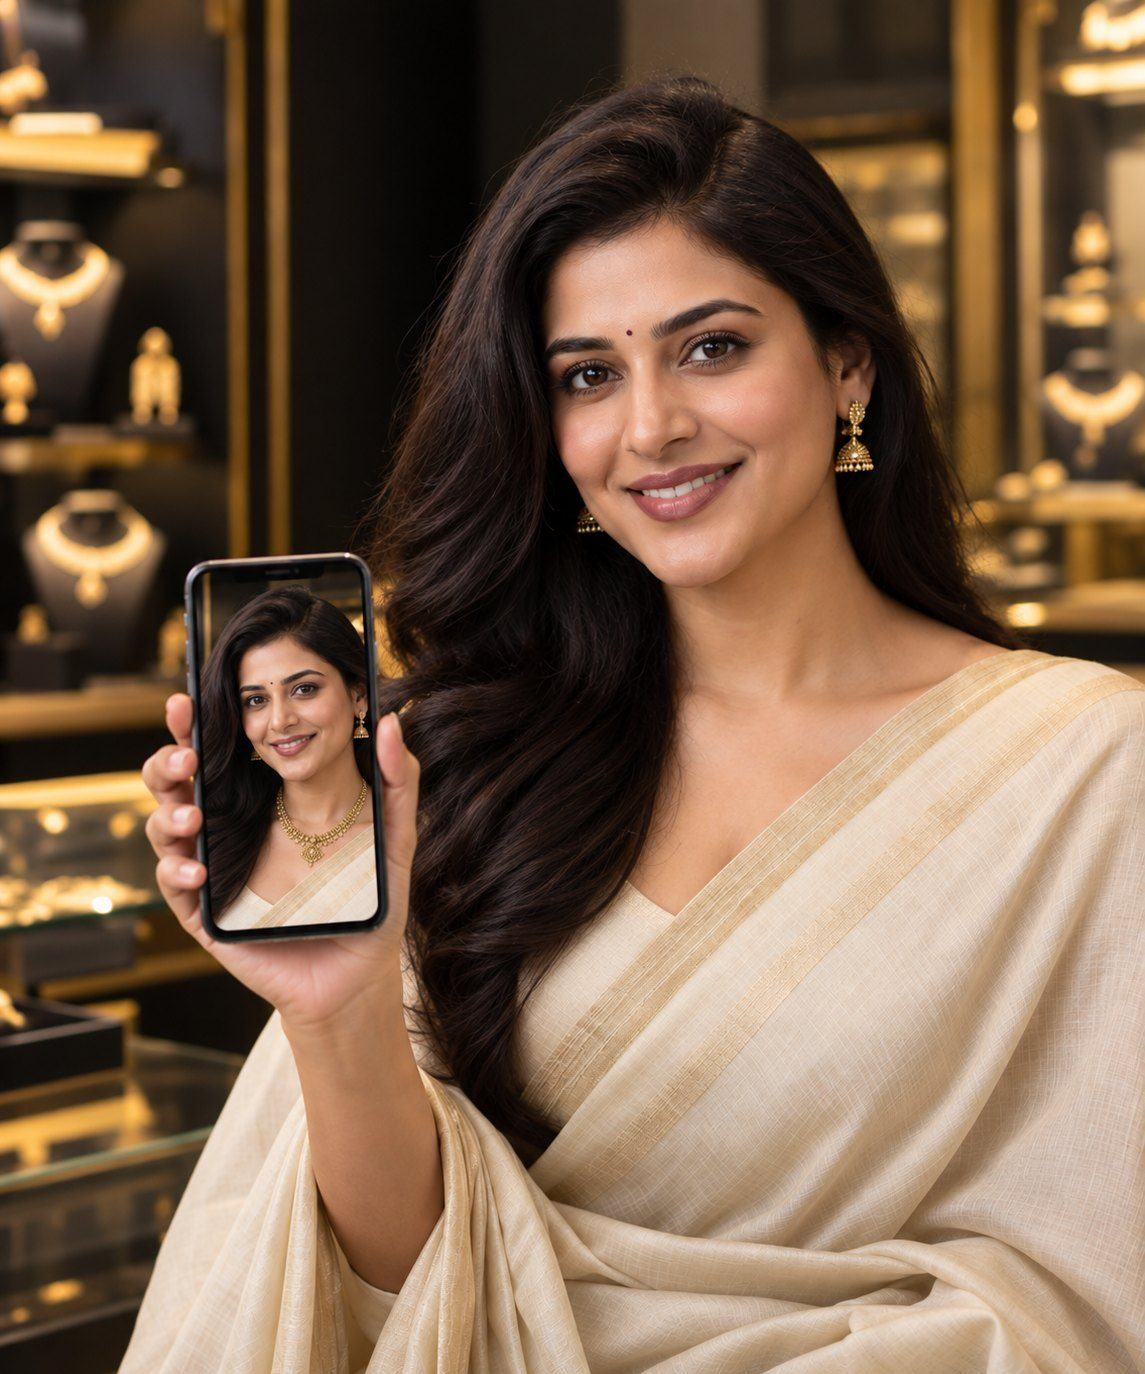
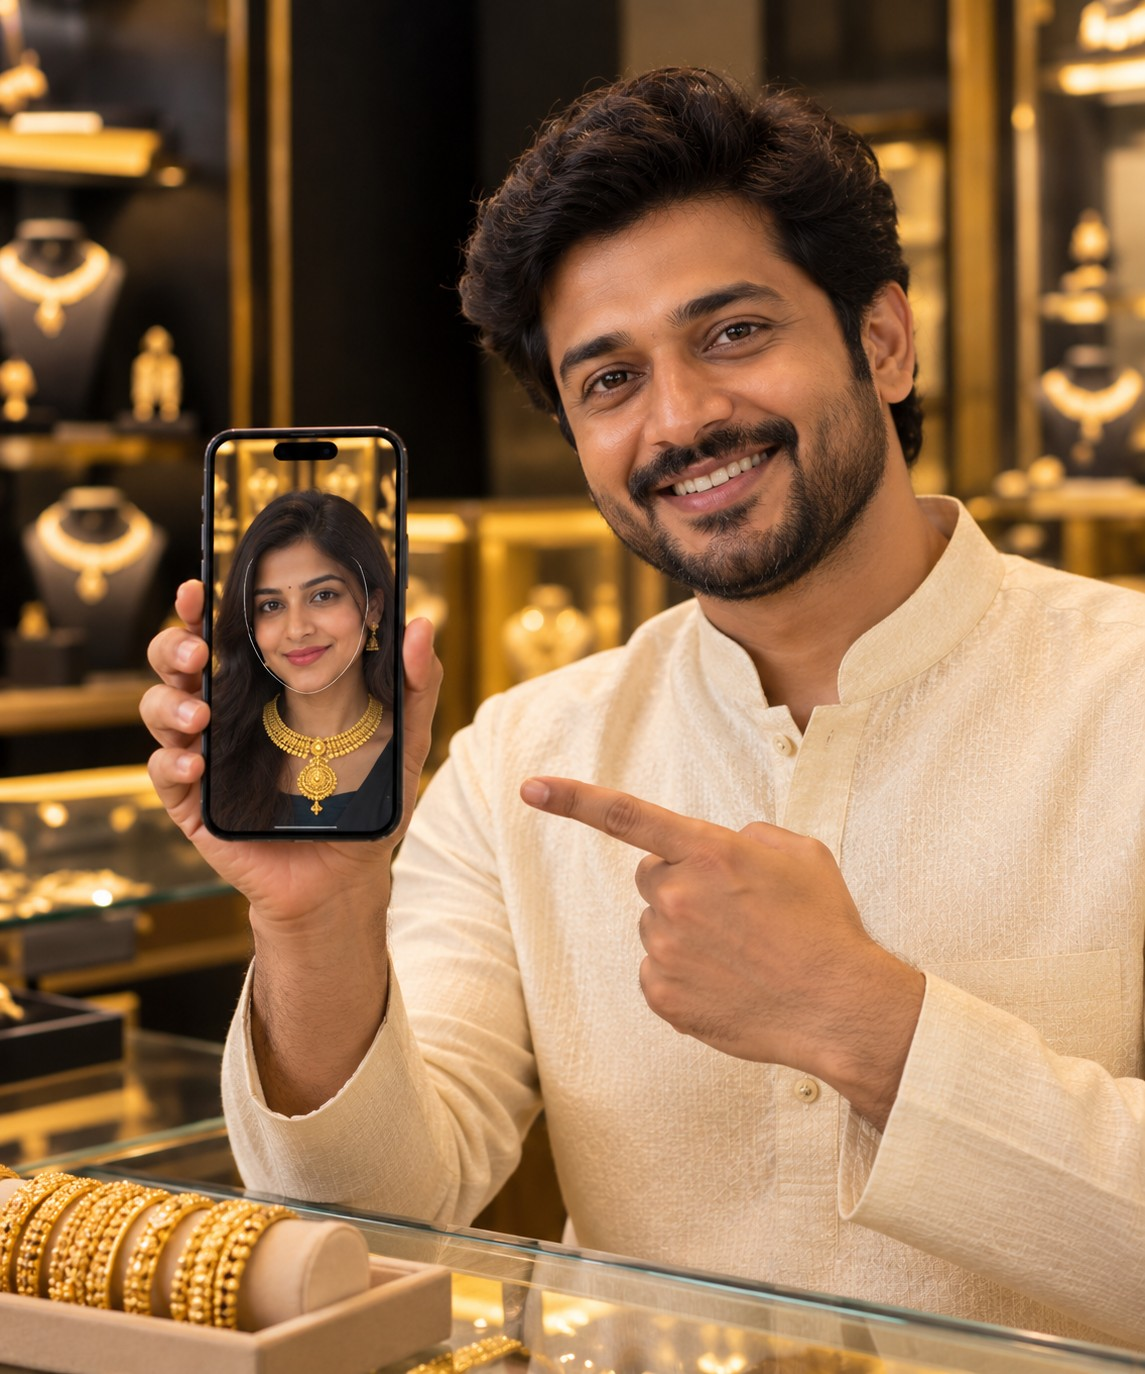
Replace hero photo with new man-holding-phone image
Swaps public/images/01.jpg for a new photo of a smiling man holding up
a phone showing LIVE TRY-ON on a woman, jewellery shop in the
background. Same pixel dimensions (1145x1374) as the previous photo, so
the arch crop, aspect ratio, and position within the hero layout are
unchanged - nothing else shifts. Updated the alt text to match, and left
the two round accent photos (02, 03) untouched.

diff --git a/src/components/Hero.tsx b/src/components/Hero.tsx
@@ -19,7 +19,7 @@ export default function Hero() {
     </div>
     <div className="hero-art">
       <div className="gold-arch" style={{ left: 'auto', right: 0, top: '7%', width: '86%' }} />
-      <figure className="slot arch r45 has-img" style={{ right: '4%', top: '2%', width: '86%' }}><img src="/images/01.jpg" alt="Smiling Indian woman holding up a phone that shows her wearing a gold necklace" /><figcaption className="ph"><b>IMAGE 01</b><span>Hero. Smiling Indian woman holding a phone. Necklace only on the phone screen, her own neck bare.</span></figcaption></figure>
+      <figure className="slot arch r45 has-img" style={{ right: '4%', top: '2%', width: '86%' }}><img src="/images/01.jpg" alt="Smiling Indian man holding up a phone showing a woman wearing a gold necklace, jewellery shop in the background" /><figcaption className="ph"><b>IMAGE 01</b><span>Hero. Smiling Indian man holding a phone. Necklace shown on the phone screen, jewellery shop in the background.</span></figcaption></figure>
       <figure className="slot round sq loupe min has-img" style={{ left: 0, top: '67%', width: '31%' }}><img src="/images/02.jpg" alt="Close-up of a gold necklace" loading="lazy" /><figcaption className="ph"><b>IMAGE 02</b><span>Gold necklace close-up</span></figcaption></figure>
       <figure className="slot round sq loupe min has-img" style={{ left: '9%', top: '4%', width: '22%' }}><img src="/images/03.jpg" alt="Close-up of a gold jhumka earring" loading="lazy" /><figcaption className="ph"><b>IMAGE 03</b><span>Jhumka close-up</span></figcaption></figure>
     </div>
